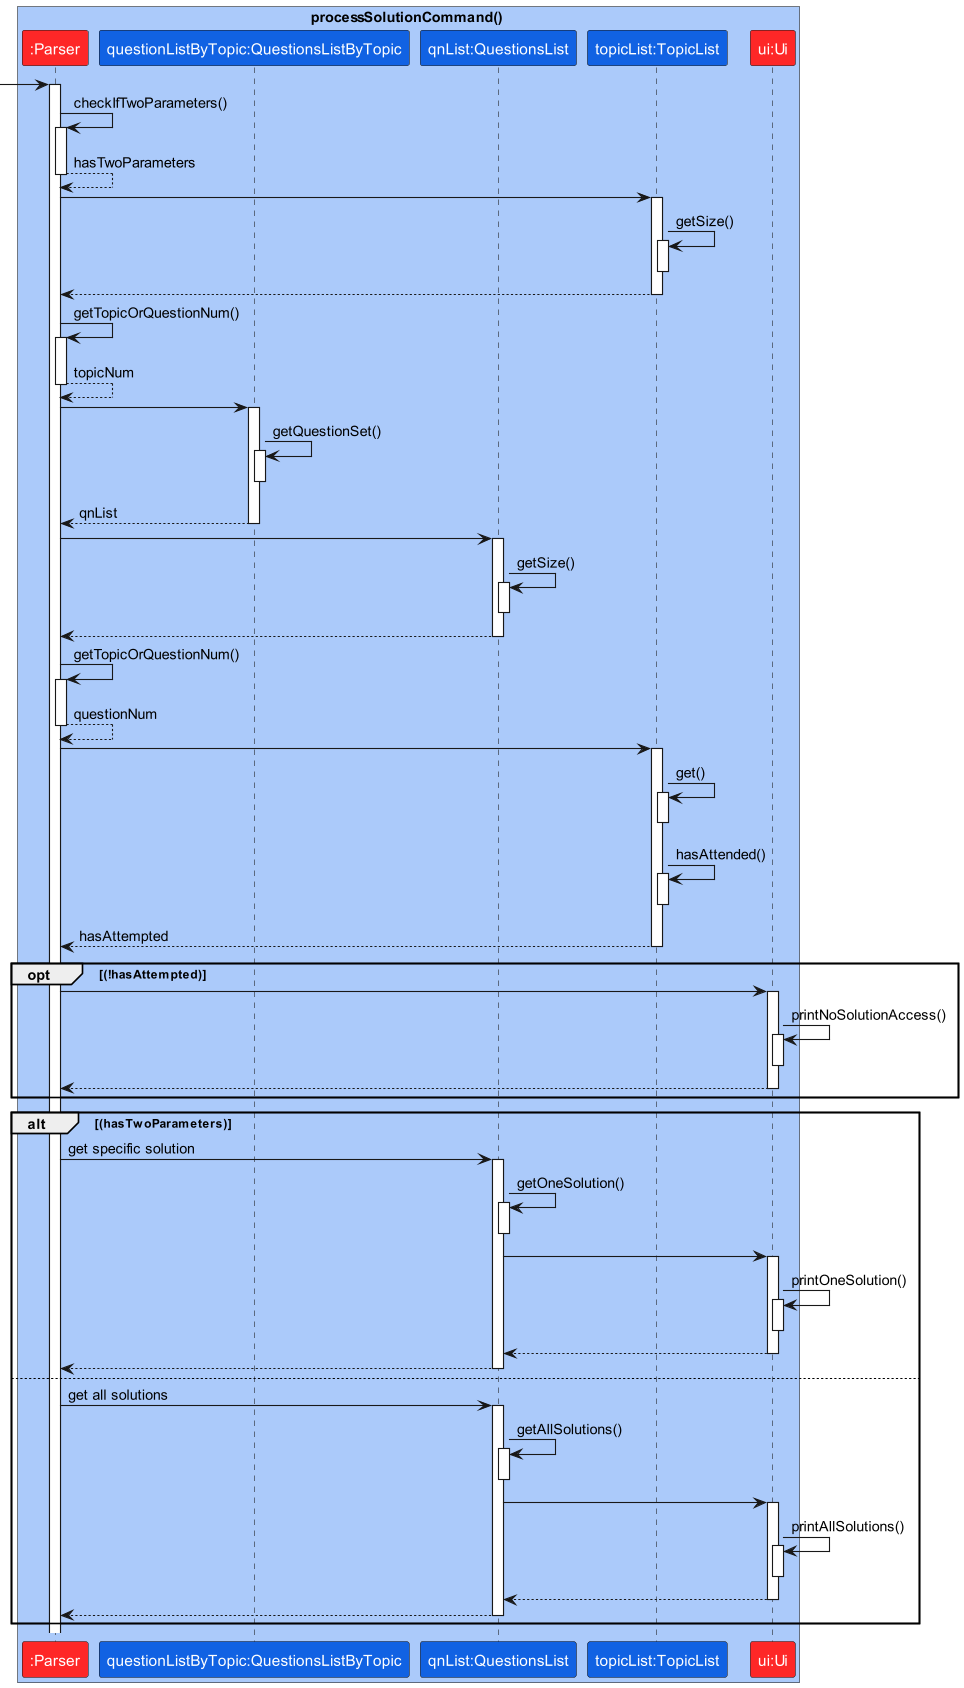
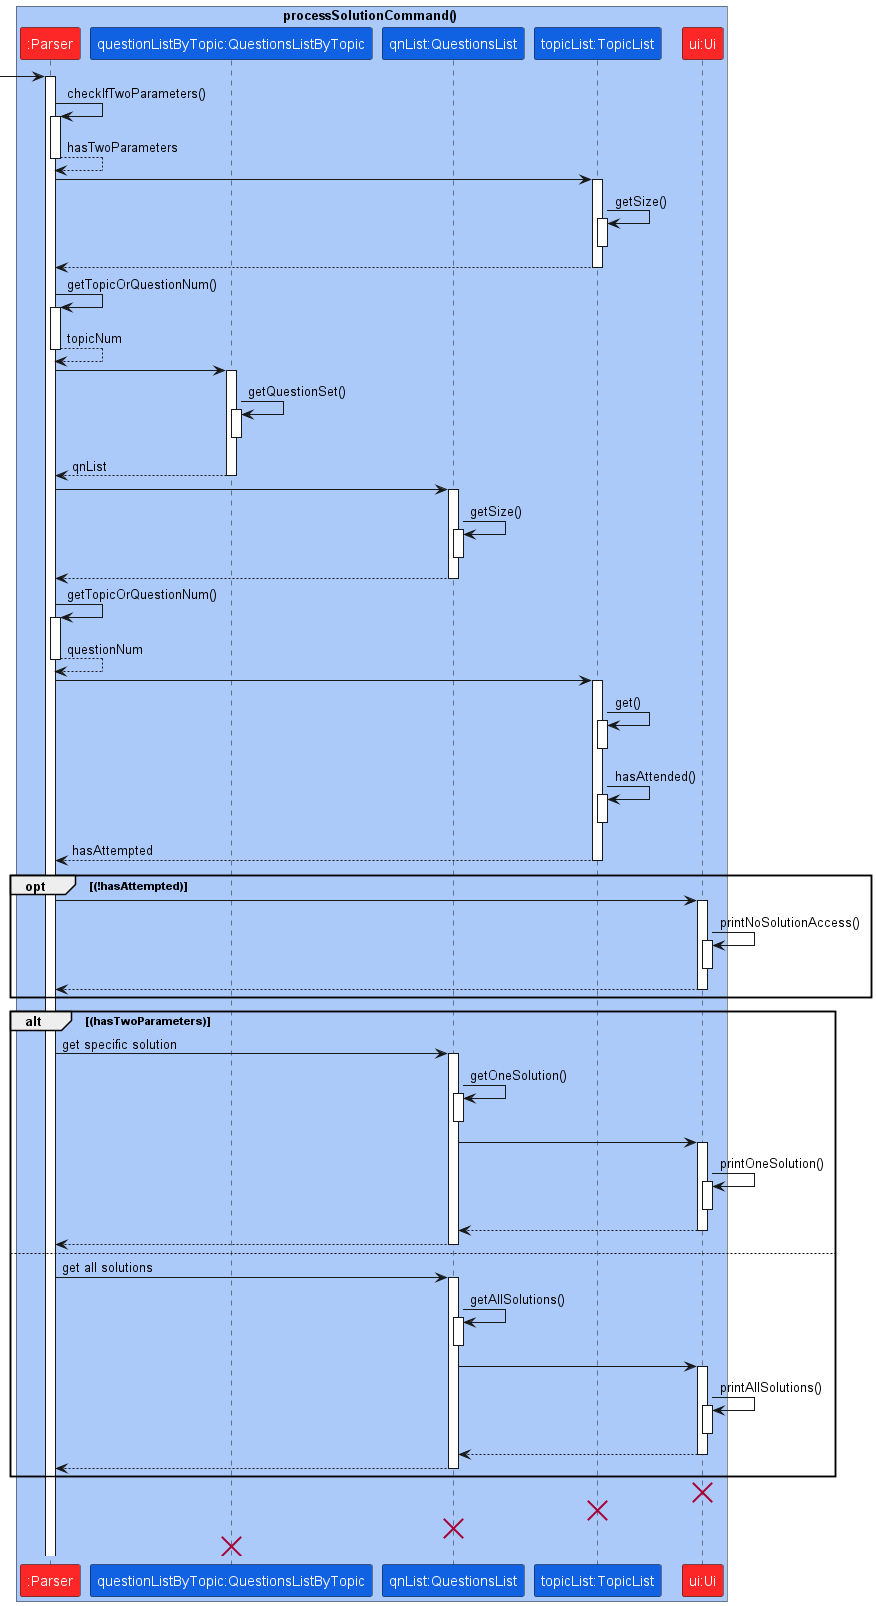
Update solutions UML, DG

diff --git a/docs/DeveloperGuide.md b/docs/DeveloperGuide.md
@@ -72,58 +72,63 @@ The following shows the class diagram for `QuestionListByTopic`:
 
 The solution feature either prints the solution to 1 question or all questions in 1 topic.
 
-The solution feature is facilitated by ```Parser#processSolutionCommand```, which is called by ```Parser#parseCommand```
+The solution feature is facilitated by `Parser#processSolutionCommand`, which is called by `Parser#parseCommand`
 
 > **OVERVIEW:**
->
 > ![Solution sequence diagram](./team/img/Solution.png)
 
+> > **Note:** The lifeline for Parser and Results should end
+> at the destroy marker (X) but due to a limitation of PlantUML,
+> the lifeline reaches the end of the diagram.
+
 Step 1: After user runs the program and keys in the user command, the command will be passed to 
-```Parser#parseCommand```. 
+`Parser#parseCommand`. 
 
-> **NOTE:** The command must contain the ```solution``` keyword.
+> **NOTE:** The command must contain the `solution` keyword.
 
-Step 2a: ```Parser#processSolutionCommand``` first checks the number of parameters in the user command 
-by calling ```Parser#checkIfTwoParameters```.
-The, further processing of parameters is done by calling ```Parser#getTopicOrQuestionNum```. 
-This is facilitated by calling ```QuestionsListByTopic#getQuestionSet``` to get all questions in the specified topic.
+Step 2a: `Parser#processSolutionCommand` first checks the number of parameters in the user command 
+by calling `Parser#checkIfTwoParameters`.
+The, further processing of parameters is done by calling `Parser#getTopicOrQuestionNum`. 
+This is facilitated by calling `QuestionsListByTopic#getQuestionSet` to get all questions in the specified topic.
 
 Step 2b: Before getting the solution(s), the program first verifies if the topic has been attempted before.
 The program only prints them only if the topic is attempted before.
-The topic is selected by calling ```TopicList#get``` and ```TopicList#hasAttempted``` returns the attempted status.
+The topic is selected by calling `TopicList#get` and `TopicList#hasAttempted` returns the attempted status.
 
 Step 3:
 Depending on the number of parameters,
 if there is 1 parameter (ie get all solutions):
-```QuestionsList#getAllSolutions``` will get all solutions and ```ui#printAllSolutions``` will print them.
+`QuestionsList#getAllSolutions` will get all solutions and `ui#printAllSolutions` will print them.
 else if there are 2 parameters (ie get one solution):
-```QuestionsList#getOneSolution``` will get the specified solution and ```ui#printOneSolution``` will print it.
+`QuestionsList#getOneSolution` will get the specified solution and `ui#printOneSolution` will print it.
 
 ### Explain feature
 The explain feature either prints the explanation to 1 question or all questions in 1 topic.
 
-The explain feature is facilitated by ```Parser#processExplanationCommand```, which is called by ```Parser#parseCommand```
+The explain feature is facilitated by `Parser#processExplanationCommand`, which is called by `Parser#parseCommand`
 
 Step 1: After user runs the program and keys in the user command, the command will be passed to
-```Parser#parseCommand```.
+`Parser#parseCommand`.
 
-> **NOTE:** The command must contain the ```explain``` keyword.
+> **NOTE:** The command must contain the `explain` keyword.
+> 
+> Sequence diagram for `explain` is similar to the [sequence diagram](#solution-feature) for `solution` feature
 
-Step 2a: ```Parser#processExplainCommand``` first checks the number of parameters in the user command
-by calling ```Parser#checkIfTwoParameters```.
-The, further processing of parameters is done by calling ```Parser#getTopicOrQuestionNum```.
-This is facilitated by calling ```QuestionsListByTopic#getQuestionSet``` to get all questions in the specified topic.
+Step 2a: `Parser#processExplainCommand` first checks the number of parameters in the user command
+by calling `Parser#checkIfTwoParameters`.
+The, further processing of parameters is done by calling `Parser#getTopicOrQuestionNum`.
+This is facilitated by calling `QuestionsListByTopic#getQuestionSet` to get all questions in the specified topic.
 
 Step 2b: Before getting the explanation(s), the program first verifies if the topic has been attempted before.
 The program only prints them only if the topic is attempted before.
-The topic is selected by calling ```TopicList#get``` and ```TopicList#hasAttempted``` returns the attempted status.
+The topic is selected by calling `TopicList#get` and `TopicList#hasAttempted` returns the attempted status.
 
 Step 3:
 Depending on the number of parameters,
 if there is 1 parameter (ie get all explanations):
-```QuestionsList#getAllExplanations``` will get all explanations and ```ui#printAllExplanations``` will print them.
+`QuestionsList#getAllExplanations` will get all explanations and `ui#printAllExplanations` will print them.
 else if there are 2 parameters (ie get one explanation):
-```QuestionsList#getOneExplanation``` will get the specified explanation and ```ui#printOneExplanation``` will print it.
+`QuestionsList#getOneExplanation` will get the specified explanation and `ui#printOneExplanation` will print it.
 
 
 ## Product scope
